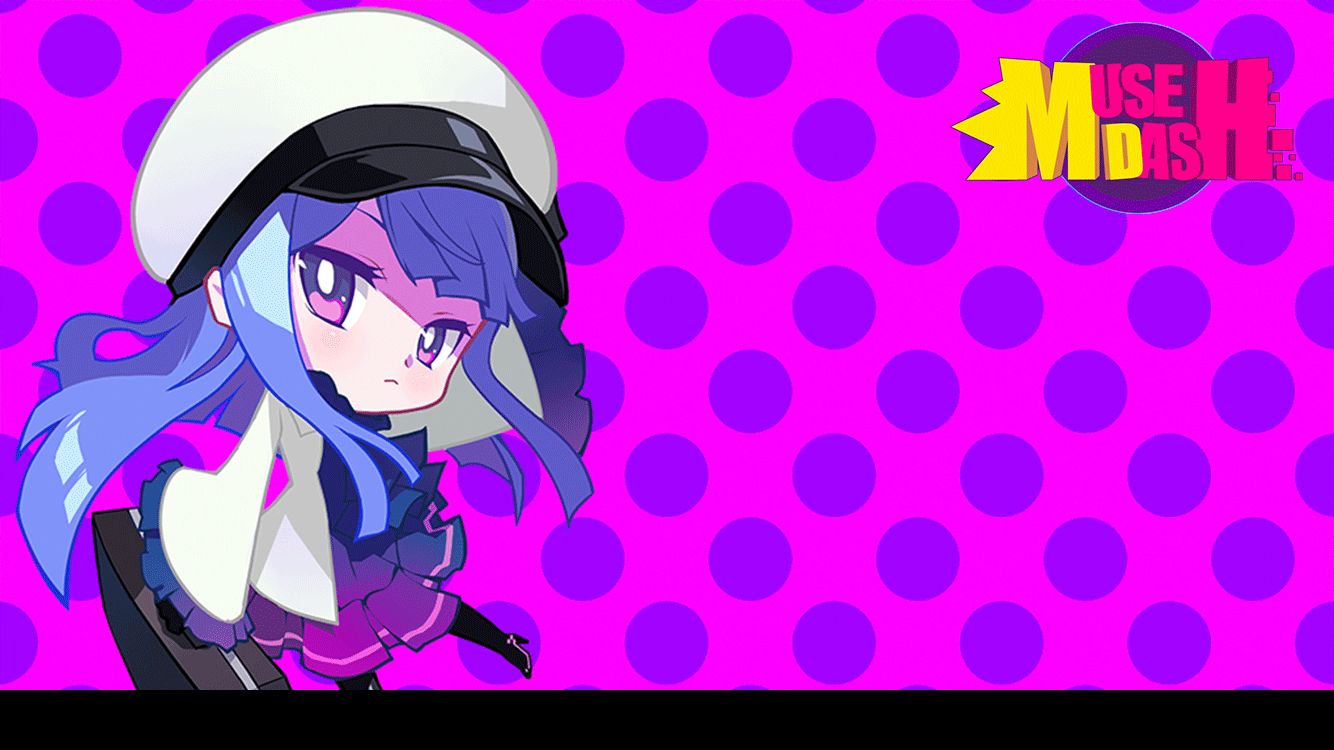
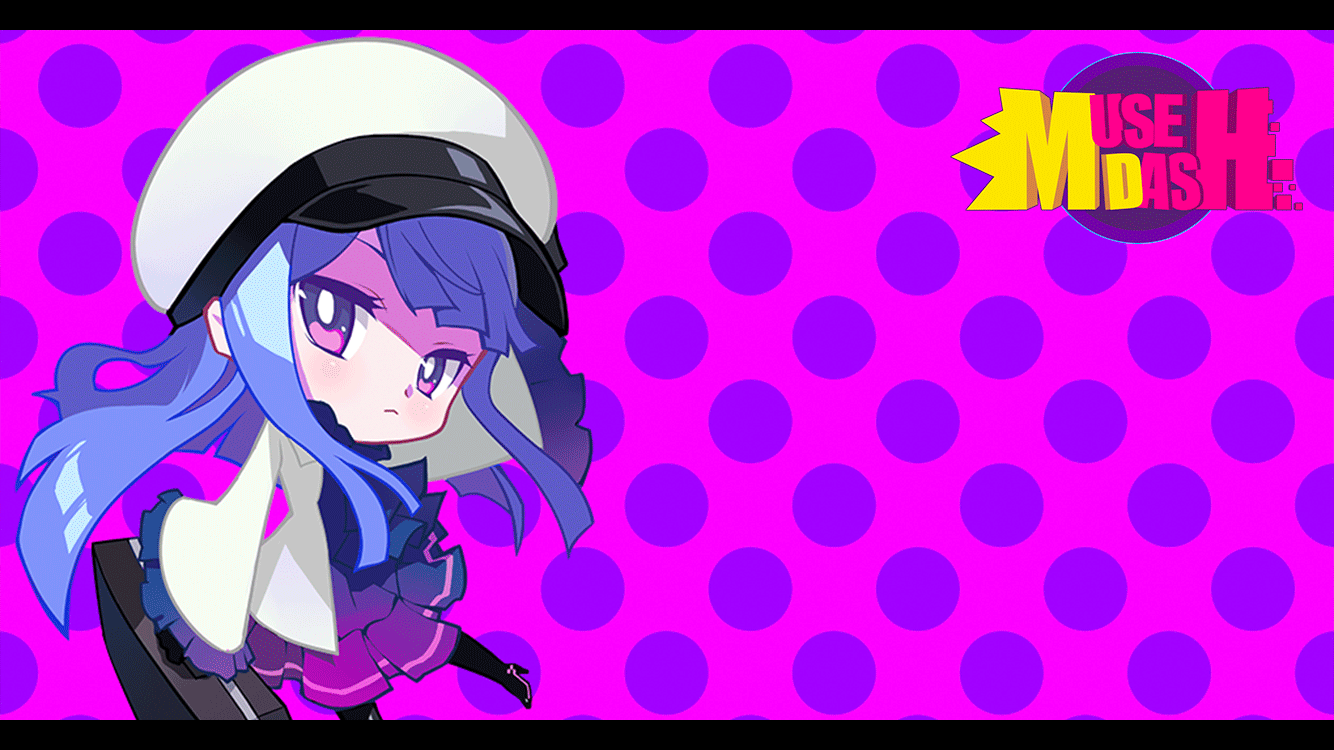
Loading界面图片找回

diff --git a/Assets/Scripts/Common/SceneLoader.cs b/Assets/Scripts/Common/SceneLoader.cs
@@ -29,13 +29,16 @@ public class SceneLoader : MonoBehaviour {
 	// private static ArrayList __resoucesList = new ArrayList();
 	private AsyncOperation asyncOper = null;
 
-	public UISprite m_sprite;
+	//public UISprite m_sprite;
+	public UITexture m_Texture;
 	public TweenAlpha twAlpha;
 	public Camera camera;
 
 	void Start () {
+		var mainTexture = Resources.Load ("ui_resource/loading/atlas/" + _str [Random.Range (0, _str.Length - 1)]) as Texture;
+		m_Texture.mainTexture = mainTexture;
 		//	UIEventListener.Get(m_labelContinue).onClick=ClickContinueButton;
-		this.m_sprite.spriteName = _str [Random.Range (0, _str.Length - 1)];
+		//this.m_sprite.spriteName = _str [Random.Range (0, _str.Length - 1)];
 		/*
 		twAlpha.from = 0f;
 		twAlpha.to = 1f;
